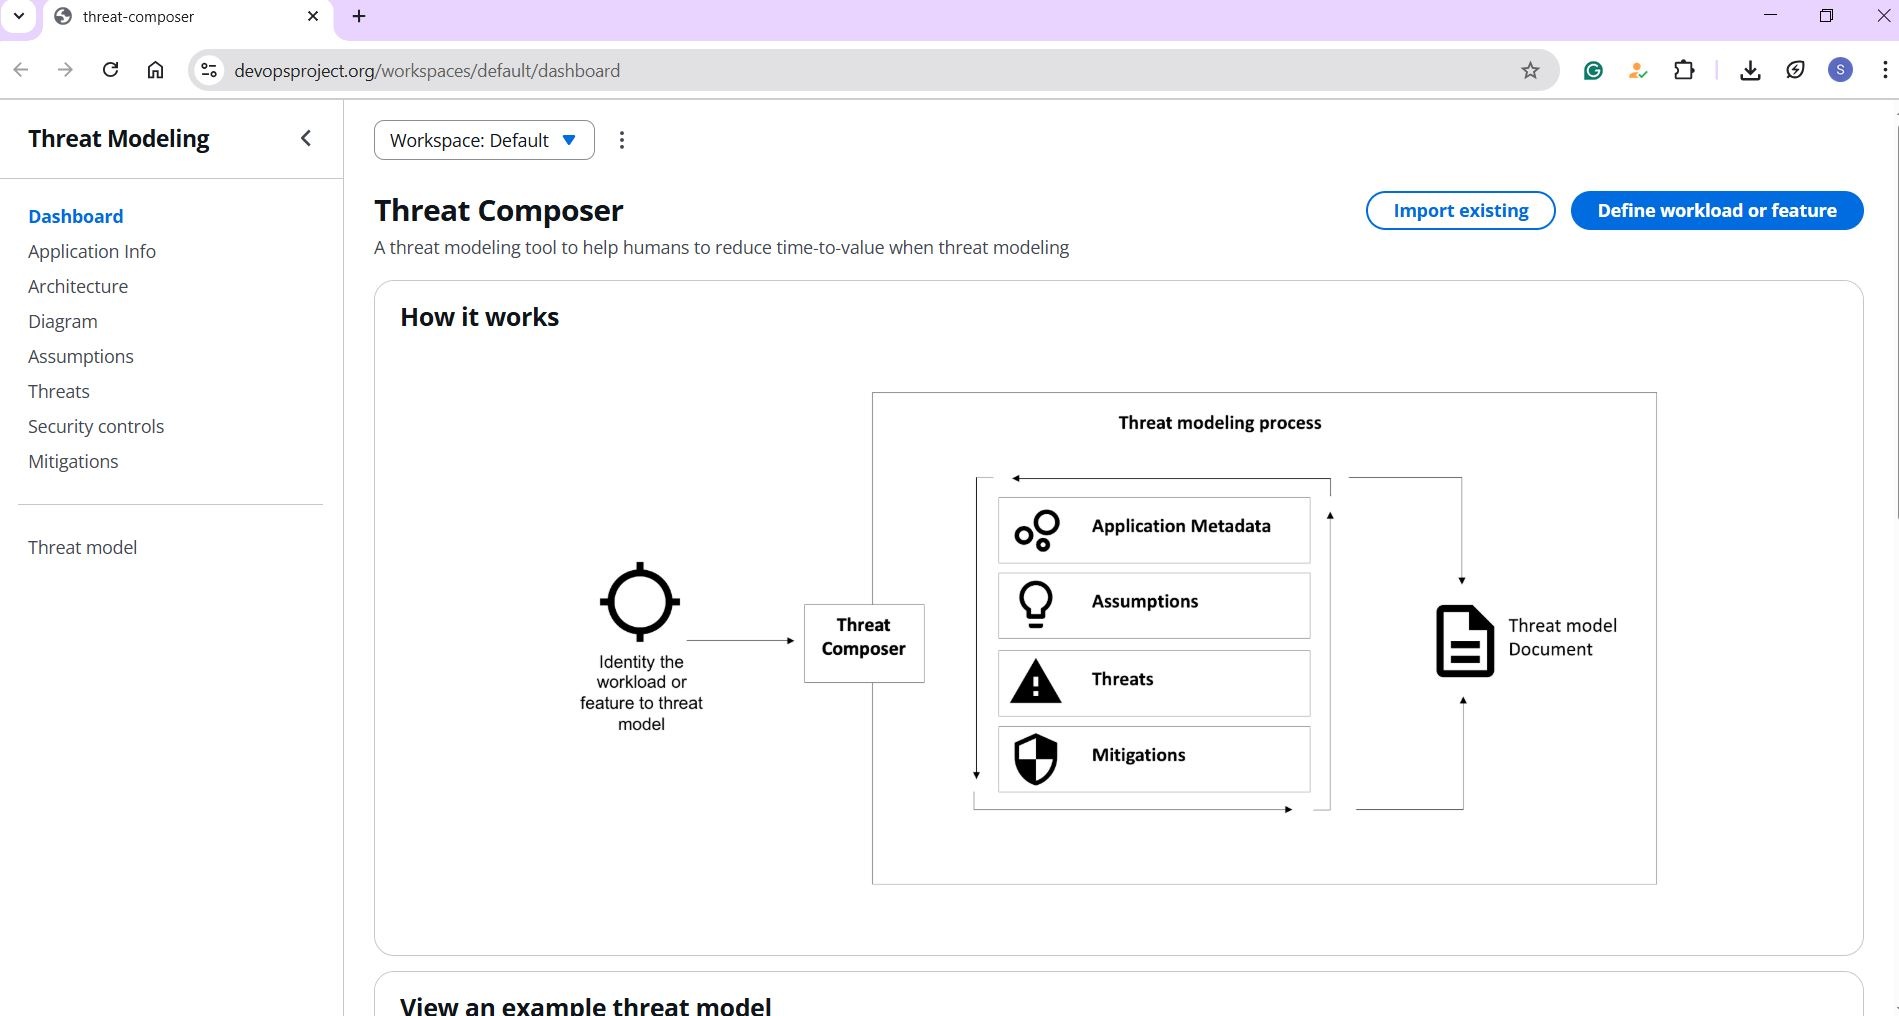
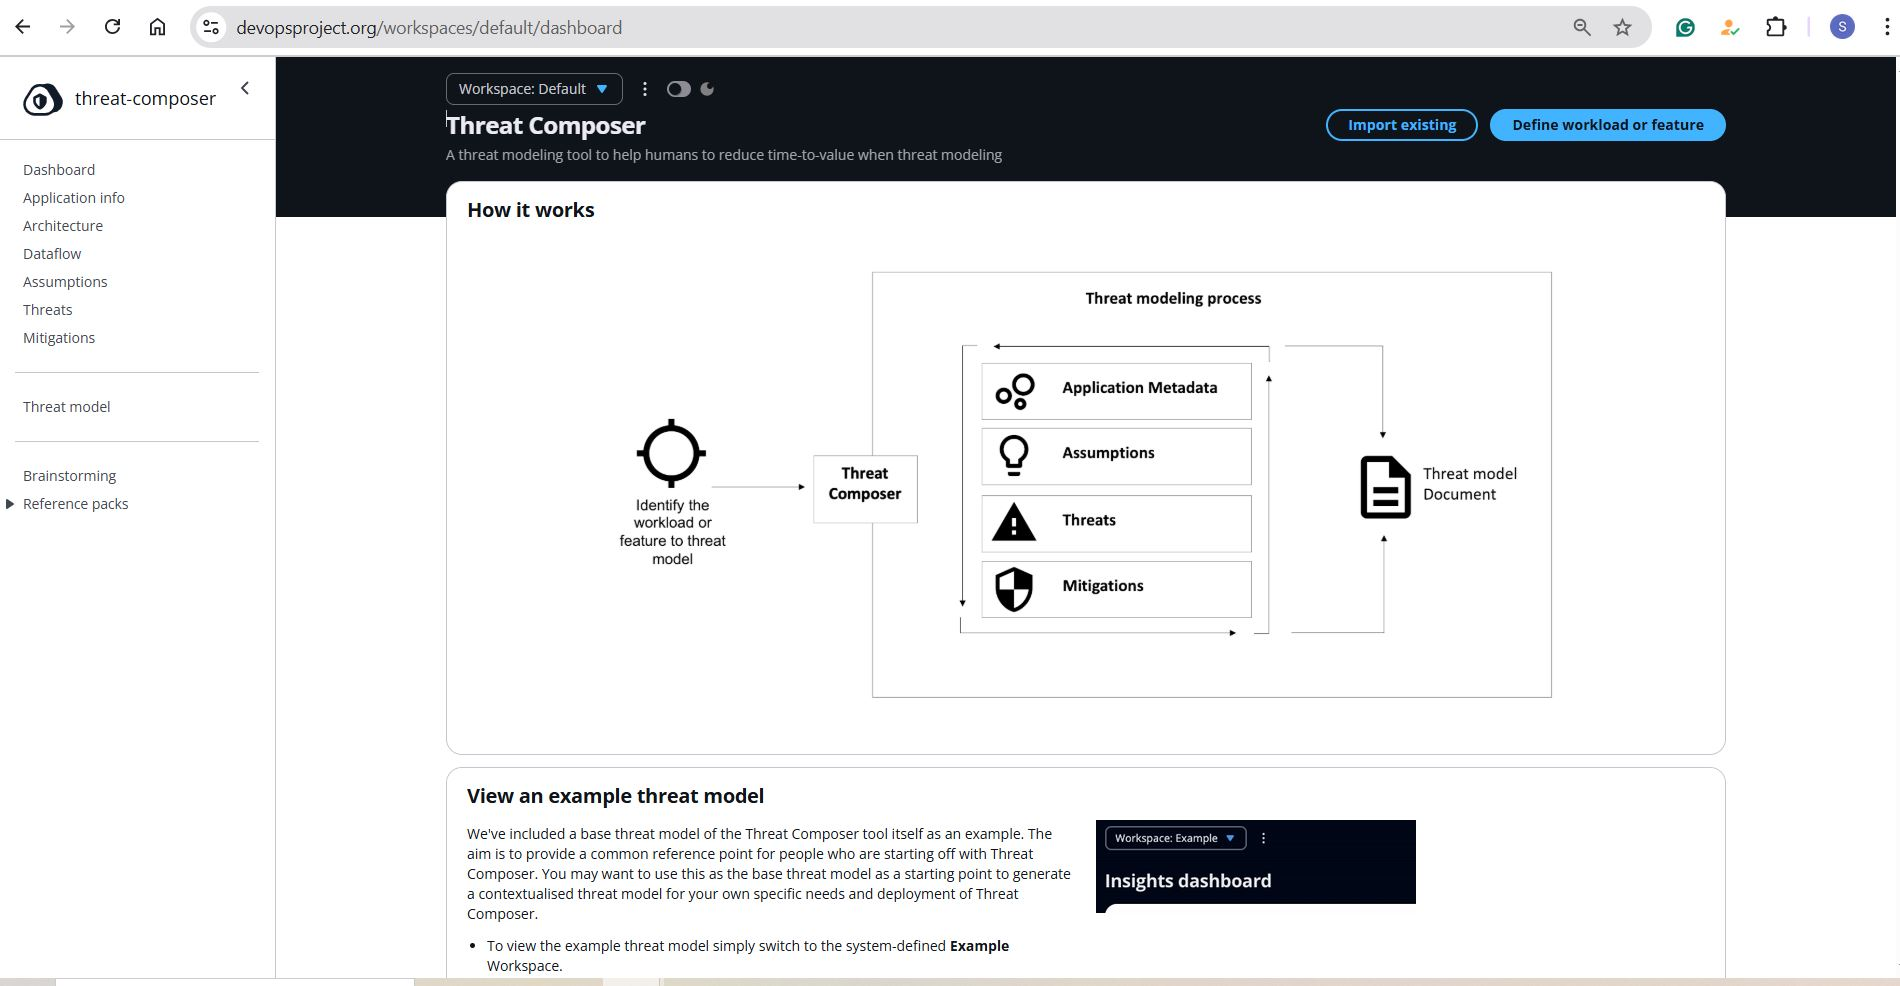
Feat2: fix issues (#2)
* fix issues

* fix issues

* fix issues

* fix issues

* fix issues

* fix issues

diff --git a/README.md b/README.md
@@ -1,6 +1,7 @@
 # Threat Composer — Infrastructure as Code (IaC) Deployment
-**Threat Composer** is an open-source web application developed by **AWS Labs** for modeling and visualizing cloud threat scenarios. It is built as a React single-page application (SPA) and deploys a two-tier architecture on AWS, with a frontend client layer and backend service/API layer.
+**Threat Composer** is an open-source threat-modeling tool developed by **AWS Labs** that helps teams identify, document and visualise potential security threats to cloud or system architectures. It is a single-page web application (built with React + Cloudscape UI) that runs fully in the browser. The default deployment does not include a backend/API — all data (system description, diagrams, assumptions, threats, mitigations, etc.) is stored in browser local storage.
 
+---
 🧩 Original Tool: [Threat Composer Tool](https://awslabs.github.io/threat-composer/workspaces/default/dashboard)
 
 🌍 Live Application: [www.devopsproject.org](https://www.devopsproject.org)
@@ -99,7 +100,7 @@ docker run -p 8080:80 threat-composer-app
 
 ## 6. Demo
 
-https://github.com/user-attachments/assets/4210da21-701c-4554-a916-797fcb0c73cd
+https://github.com/user-attachments/assets/00ed1d24-1efc-4875-83b3-ee68837f5303
 
 ## 7. Screenshots
 
